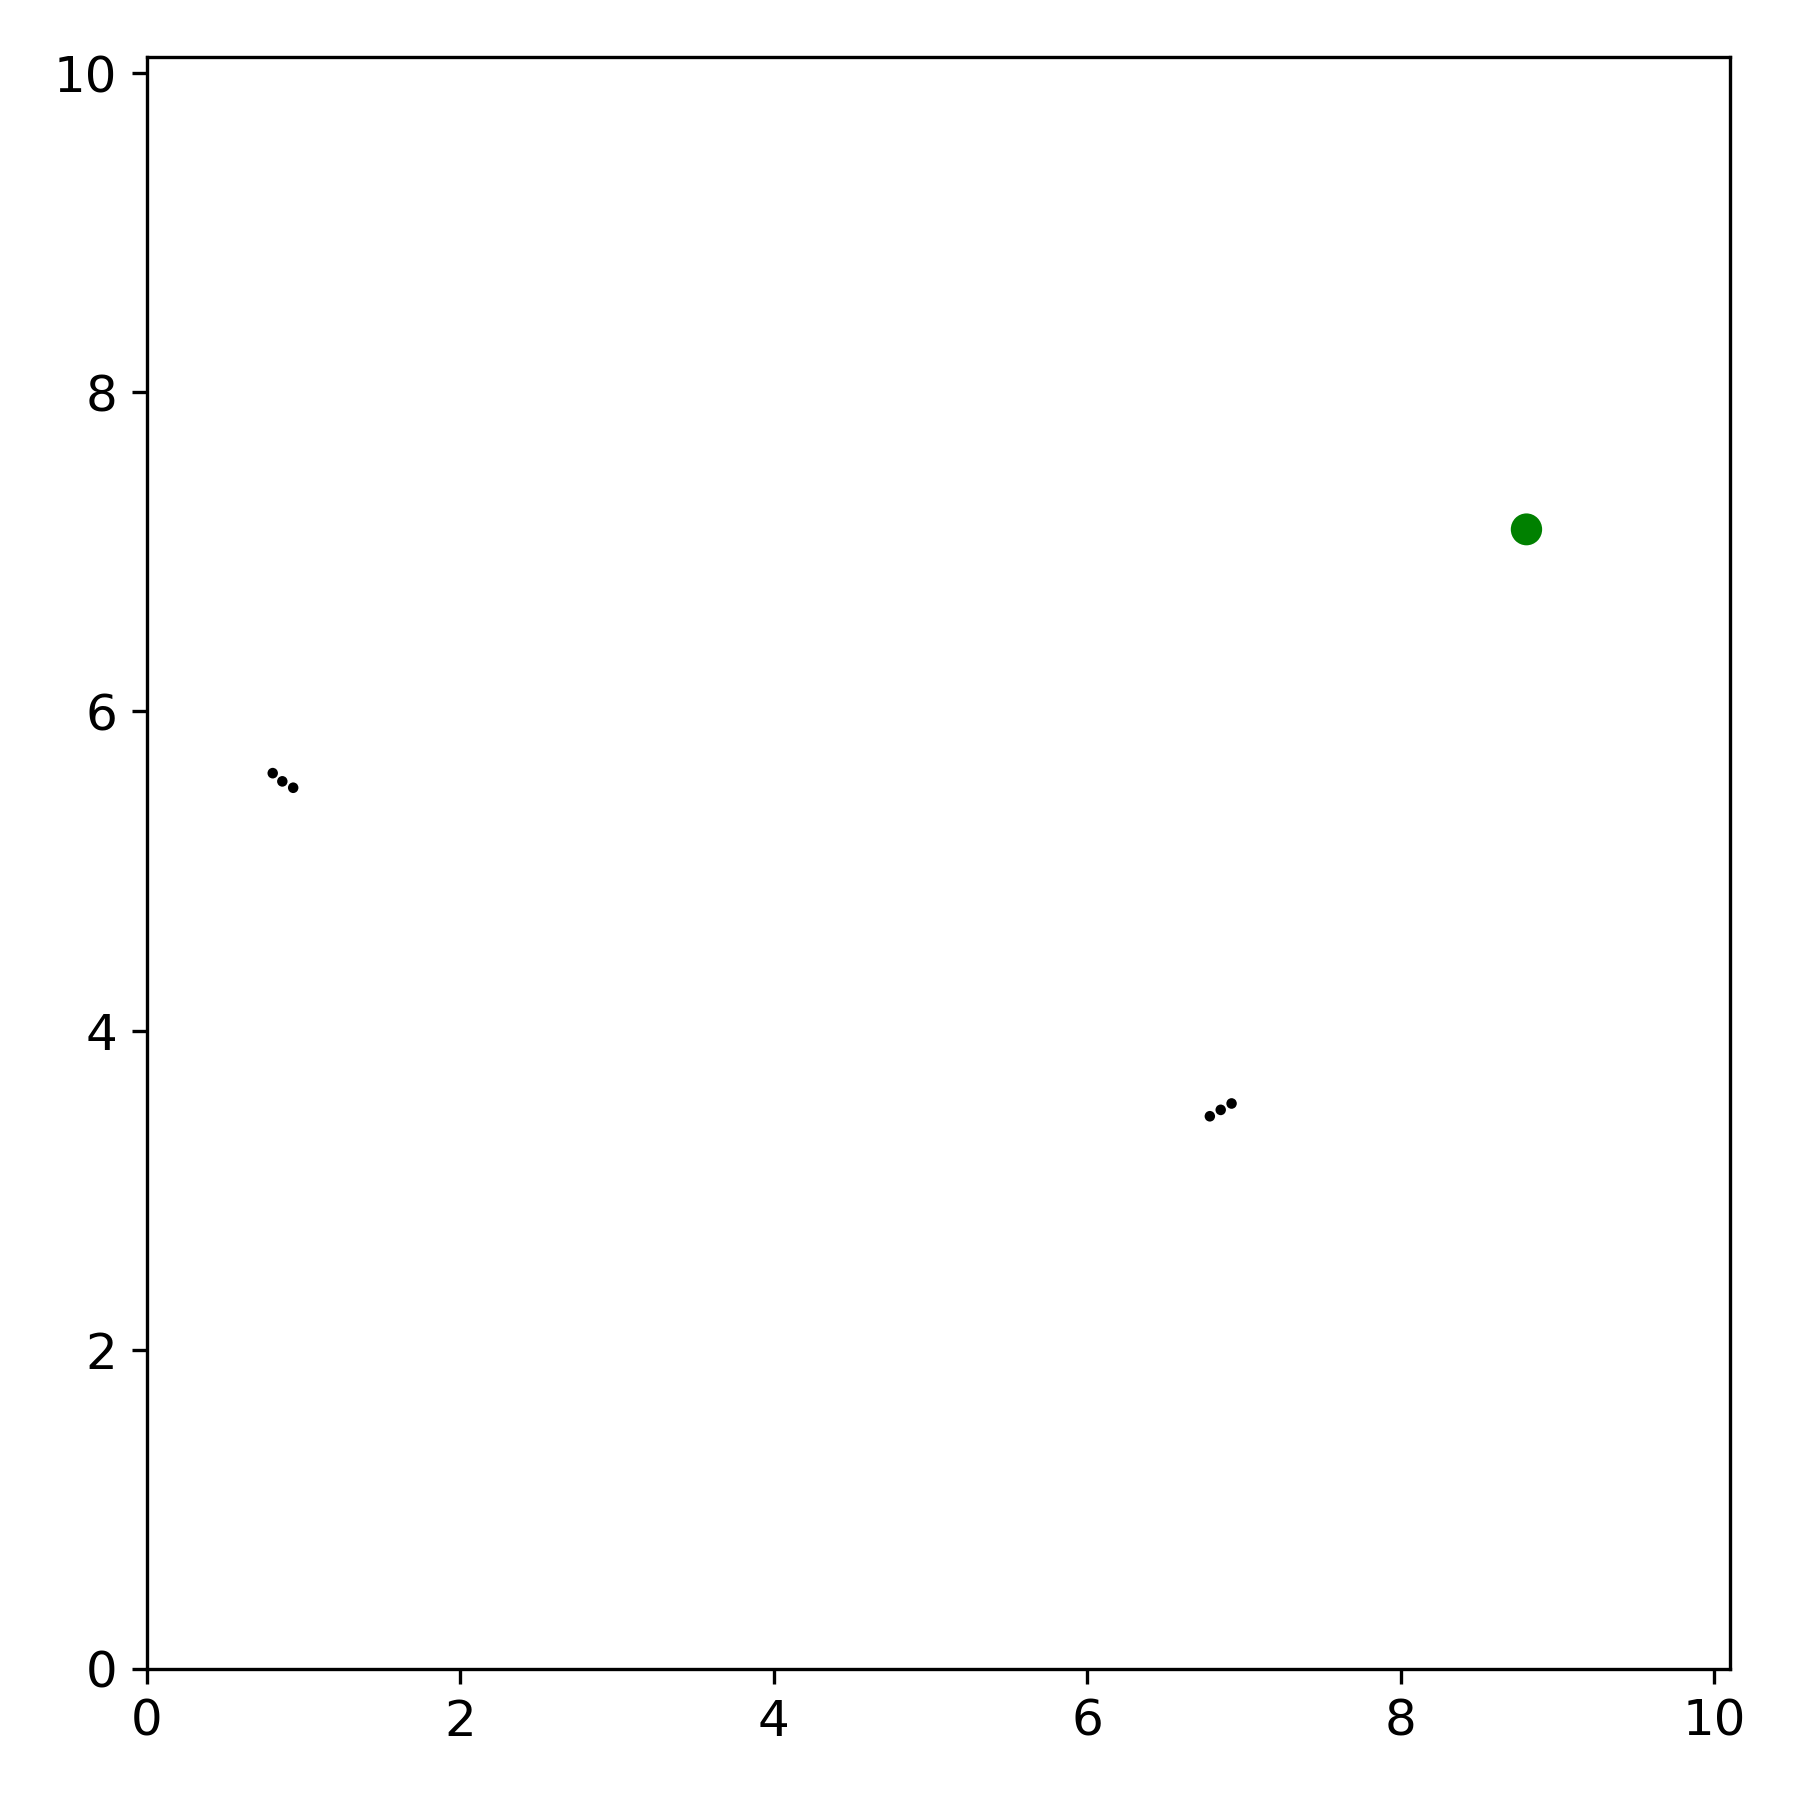
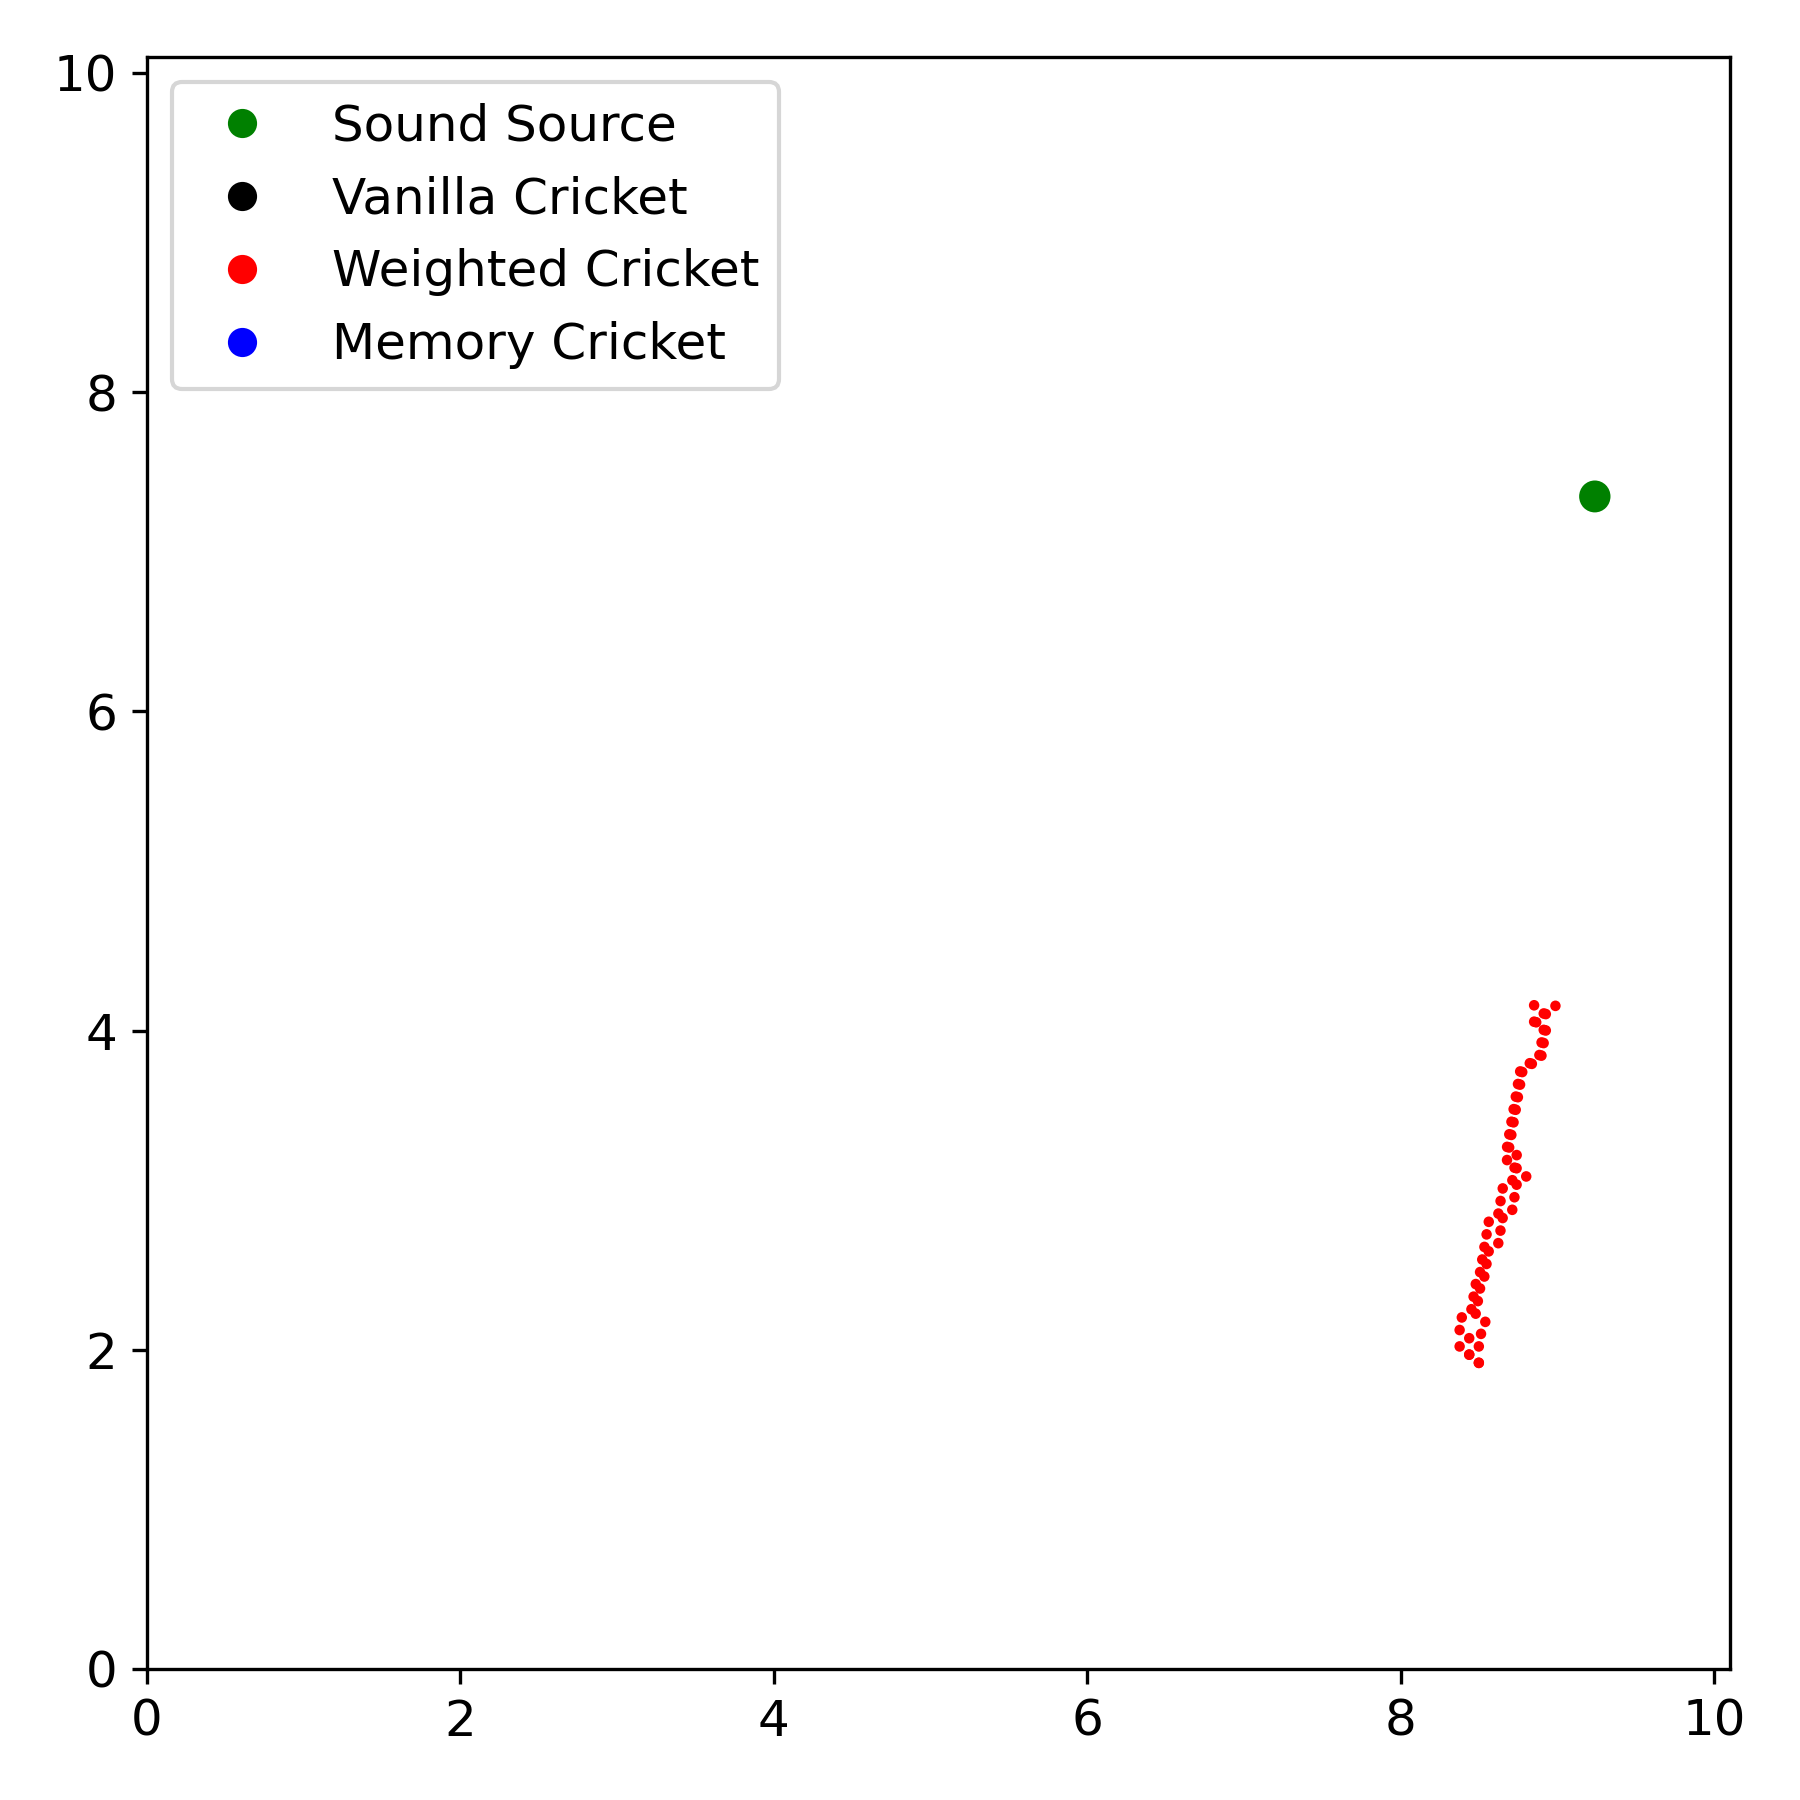
feat: random position at start for agent, readme file updated, main function runs with args

diff --git a/cricket_lib/simulator.py b/cricket_lib/simulator.py
@@ -1,19 +1,24 @@
 import os
 import sys
+from typing import List
 
+import numpy as np
 from scipy.io import wavfile
 from matplotlib import pyplot as plt, patches
 from matplotlib.lines import Line2D
 from matplotlib.animation import FuncAnimation
 import concurrent.futures
-import numpy as np
+import imageio
 
 from .environment import CricketEnvironment
 
 
 class CricketSimulation:
     def __init__(
-        self, environment: CricketEnvironment, audio_paths: str, destination_path: str
+        self,
+        environment: CricketEnvironment,
+        audio_paths: List[str],
+        destination_path: str,
     ):
         """
         Initialize the simulation
@@ -47,10 +52,11 @@ class CricketSimulation:
                 agent.check_mate(self.environment.get_source_locations())
                 for agent in self.environment.agents
             )
-            or self.environment.check_one_agent_under_source()
+            or not self.environment.check_one_agent_under_source()
         ):
             # Close the figure
             plt.close(self.fig)
+            self.__animation_finished(None)
             return
 
         sources = self.environment.get_source_locations()
@@ -66,9 +72,11 @@ class CricketSimulation:
             concurrent.futures.wait(futures)
 
         # Draw the new position of the agent
-        for agent in self.environment.get_agent_locations():
+        for agent in self.environment.agents:
             new_patch = patches.Circle(
-                (agent), radius=dimensions[0] / 300, facecolor="black"
+                (agent.get_position()),
+                radius=dimensions[0] / 300,
+                facecolor=agent.color,
             )
             self.ax.add_patch(new_patch)
             self.trail_patches.append(new_patch)
@@ -78,7 +86,7 @@ class CricketSimulation:
         """
         Play the simulation
         """
-        for i in range (0,len(self.audio_paths)):
+        for i in range(0, len(self.audio_paths)):
             fs, sound_signal = wavfile.read(self.audio_paths[i])
             self.signal.append(sound_signal)
         self.anim = FuncAnimation(
@@ -91,14 +99,59 @@ class CricketSimulation:
         """
         Callback function to handle animation finish event
         """
-        if self.anim:
-            self.anim.event_source.stop()  # Stop animation event source
-        # Save the png
-        print(f"-------------- Saving the png at {self.png_path} --------------")
-        self.fig.savefig(self.png_path, dpi=300)
-        # Save the gif
-        print(f"-------------- Saving the gif at {self.gif_path} --------------")
-        self.anim.save(self.gif_path, writer="imagemagick", fps=2)
+        try:
+            plt.close(self.fig)
+            if self.anim:
+                # Kill the animation
+                self.anim.event_source.stop()
+        except Exception as e:
+            pass
+        finally:
+            # Save the png
+            print(f"-------------- Saving the png at {self.png_path} --------------")
+            self.fig.savefig(self.png_path, dpi=300)
+            # Save the gif
+            print(f"-------------- Saving the gif at {self.gif_path} --------------")
+            # self.anim.save(self.gif_path, writer="imagemagick", fps=3)
+            # self.__create_gif()
+
+    def __create_gif(self):
+        """
+        Create the gif
+        """
+        # Create a list to hold frames
+        frames = []
+        num_frames = len(
+            self.environment.agents[0].past_positions
+        )  # Number of frames equals the length of past_positions of any agent
+
+        for i in range(num_frames):
+            # Clear previous frame
+            self.ax.clear()
+
+            # Draw all agents' positions for the current frame
+            for agent in self.environment.agents:
+                position = agent.past_positions[i]
+                new_patch = patches.Circle(
+                    (position[0], position[1]),
+                    radius=self.environment.get_room_dimensions()[0] / 300,
+                    facecolor=agent.color,
+                )
+                self.ax.add_patch(new_patch)
+
+            # Draw additional elements if needed
+            # Add any additional drawing code here
+
+            # Save the current frame as an image
+            self.fig.canvas.draw()
+            width, height = self.fig.get_size_inches() * self.fig.get_dpi()
+            width, height = int(width), int(height)
+            image = np.frombuffer(self.fig.canvas.tostring_rgb(), dtype="uint8")
+            image = image.reshape((height, width, 3))
+            frames.append(image)
+
+        # Save frames as a GIF
+        imageio.mimsave(self.gif_path, frames, format="GIF", duration=0.3)
 
     def setup_room(self):
         """
@@ -125,17 +178,23 @@ class CricketSimulation:
         # Setup agent patches
         self.trail_patches = [
             patches.Circle(
-                position, radius=self.environment.room_dim[0] / 300, facecolor="black"
+                agent.get_position(),
+                radius=self.environment.room_dim[0] / 300,
+                facecolor=agent.color,
             )
-            for position in self.environment.get_agent_locations()
+            for agent in self.environment.agents
         ]
         for patch in self.trail_patches:
             self.ax.add_patch(patch)
 
         # Include custom legend
-        legend_elements = [Line2D([0], [0], marker='o', lw=0, color='green', label='Sound Source'),\
-                           Line2D([0], [0], marker='o', lw=0, color='black', label='Cricket')]
-        self.ax.legend(handles=legend_elements, loc='upper left')
+        legend_elements = [
+            Line2D([0], [0], marker="o", lw=0, color="green", label="Sound Source"),
+            Line2D([0], [0], marker="o", lw=0, color="black", label="Vanilla Cricket"),
+            Line2D([0], [0], marker="o", lw=0, color="red", label="Weighted Cricket"),
+            Line2D([0], [0], marker="o", lw=0, color="blue", label="Memory Cricket"),
+        ]
+        self.ax.legend(handles=legend_elements, loc="upper left")
 
     def setup_export_paths(self, destination_path: str) -> None:
         """
@@ -145,7 +204,7 @@ class CricketSimulation:
             destination_path (str): The folder to save the files to
 
         The files are named as "output_gif_0.gif", "output_gif_1.gif", etc.
-        or "output_png_0.png", "output_png_1.png", etc. and will be saved in 
+        or "output_png_0.png", "output_png_1.png", etc. and will be saved in
         the "output" folder, in the parent directory of the current path
         """
 

diff --git a/cricket_lib/agent.py b/cricket_lib/agent.py
@@ -1,4 +1,5 @@
 import math
+import random
 from typing import List, Tuple
 import numpy as np
 from typing import List, Dict
@@ -30,6 +31,8 @@ class CricketAgent:
         self.speed: float = speed
         self.available_space: List[float] = available_space
         self.position: List[float] = position if position else self.__random_position()
+        self.color: str = "black"
+        self.past_positions: List[List[float]] = []
 
     def sense(
         self,
@@ -88,6 +91,7 @@ class CricketAgent:
             y_align = room_dim[1]
 
         self.position = [x_align, y_align, 0]
+        self.past_positions.append(self.position)
 
         self.check_mate(sound_sources)
 
@@ -144,13 +148,14 @@ class CricketAgent:
         ]
 
 
-class CricketAgentEnhanced(CricketAgent):
+class CricketAgentWeighted(CricketAgent):
     def __init__(
         self,
         position=[np.random.uniform(0.5, 9.5), np.random.uniform(0.5, 20 / 3 - 0.5), 0],
         speed: float = 1.0,
     ):
         super().__init__(position=position, speed=speed)
+        self.color = "red"
 
     def sense(
         self,
@@ -240,7 +245,7 @@ class CricketAgentEnhanced(CricketAgent):
             )
 
             # The weight is the inverse of the distance
-            weight = 1 / distance if distance != 0 else 1
+            weight = 1 / distance**4 if distance != 0 else 1
 
             # The weight is multiplied by the distance
             combined_weight += weight
@@ -269,6 +274,7 @@ class CricketAgentMemory(CricketAgent):
             []
         )  # Storing angle and probabilities
         self.adaptation_factor = 0.01  # Initial adaptation factor
+        self.color = "blue"
 
     def sense(
         self,
@@ -332,6 +338,7 @@ class CricketAgentMemory(CricketAgent):
             y_align = room_dim[1]
 
         self.position = [x_align, y_align, 0]
+        self.past_positions.append(self.position)
 
         self.check_mate(sound_sources)
 

diff --git a/cricket_race/main.py b/cricket_race/main.py
@@ -12,6 +12,7 @@ The rules of the game are as follows:
 
 """
 
+import numpy as np
 from cricket_lib import agent, environment, simulator, speaker
 
 
@@ -26,14 +27,21 @@ def main():
         # Simulation variables
         audio_path = "./sound_data/cricket.wav"
 
+        random_agent_positions = []
+        for i in range(2):
+            random_agent_positions.append(
+                [
+                    np.random.uniform(0.5, room_dim[0] - 0.5),
+                    np.random.uniform(0.5, room_dim[1] / 2 - 0.5),
+                    0,
+                ]
+            )
+
         # Agent and Simulation
         _environment = environment.CricketEnvironment(room_dim)
-        _agent = agent.CricketAgentEnhanced()
-        _agent_2 = agent.CricketAgentEnhanced()
-        _environment.add_agent(_agent)
-        _environment.add_agent(_agent_2)
-        _source = speaker.Speaker()
-        _environment.add_source(_source)
+        for position in random_agent_positions:
+            _environment.add_agent(agent.CricketAgentWeighted(position))
+        _environment.add_source(speaker.Speaker())
         simulation = simulator.CricketSimulation(
             _environment, [audio_path], "../cricket_race/"
         )

diff --git a/cricket_lib/environment.py b/cricket_lib/environment.py
@@ -1,6 +1,7 @@
 from typing import List
 
 from .speaker import Speaker
+from .agent import CricketAgent
 
 
 class CricketEnvironment:
@@ -14,7 +15,7 @@ class CricketEnvironment:
 
         self.room_dim: List[float] = room_dim
         self.sources: List[Speaker] = []
-        self.agents = []
+        self.agents: List[CricketAgent] = []
 
     def get_room_dimensions(self) -> List[float]:
         """
@@ -82,8 +83,7 @@ class CricketEnvironment:
 
         # Check if one agent is under the source
         for agent in self.agents:
-            if (
-                agent.get_position()[0] > lowest_speaker.get_position()[0] - 0.3
-                and agent.get_position()[0] < lowest_speaker.get_position()[0] + 0.3
-            ):
+            if agent.get_position()[1] < lowest_speaker.get_position()[1]:
                 return True
+
+        return False

diff --git a/main.py b/main.py
@@ -1,8 +1,24 @@
+import sys
 from cricket_race.main import main as cricket_race_main
 from cricket_mating.main import main as cricket_mating_main
 from ormia_response.main import main as ormia_audio_response_main
 
 if __name__ == "__main__":
-    # cricket_mating_main()
-    cricket_race_main()
-    # ormia_audio_response_main()
+    # Take the arguments from the command line
+    if len(sys.argv) != 2:
+        print("Please provide the name of the experiment to run")
+        sys.exit(0)
+
+    experiment_name = sys.argv[1]
+
+    # Run the experiment
+    match experiment_name:
+        case "mating":
+            cricket_mating_main()
+        case "race":
+            cricket_race_main()
+        case "ormia":
+            ormia_audio_response_main()
+        case _:
+            print("Invalid experiment name")
+            sys.exit(0)

diff --git a/cricket_lib/__init__.py b/cricket_lib/__init__.py
@@ -1,0 +1,3 @@
+import numpy as np
+
+np.random.seed = 4

diff --git a/README.md b/README.md
@@ -1,2 +1,43 @@
 # COMP5400M-CW2
+
 Use a sound source localisation algorithm as a sensory input for bio-inspired agents.
+
+## Introduction
+
+The purpose of this project is to explore the behaviour of bio-inspired agents when using a sound source localisation algorithm as a sensory input. The agents will be tested in a simulated environment with the aim of finding the best configuration for the agents to be able to locate the sound source.
+
+## Sound Source Localisation Algorithm
+
+The chosen agents are based on the cricket localisation algorithm. The algorithm is based on the time difference of arrival (TDOA) of the sound at the two ears of the cricket. The algorithm uses the TDOA to calculate the angle of the sound source relative to the cricket. The algorithm is implemented in the `sound_source_localisation.py` file.
+
+## Project Structure
+
+The project is structured as follows:
+
+- The main library is in the folder `cricket_lib`. This folder is structured as a library and will be used by all other files.
+- `cricket_mating` contains the code for analysing a single agent and its ability to locate the sound source.
+- `cricket_race` contains the code for analysing multiple agents and their ability to locate the sound source.
+- `ormia_response` contains the code for TODO
+- All other folders contain resources such as the sound source or the saved models.
+
+## Running the Project
+
+### Libraries and other software
+
+As this is a project that uses Python, it is recommended to use a virtual environment to run the project. The used version of Python is 3.10.2 and can also be found in the `.python-version` file if using `pyenv`.
+
+The required libraries can be found in the `requirements.txt` file. To install the required libraries, run the following command:
+
+```bash
+pip install -r requirements.txt
+```
+
+### Executing the script
+
+The project is setup to be run using the `main.py` file.
+
+As there are 3 different configurations, the script can be run with the following arguments:
+
+- `mating`: Run the script for a single agent.
+- `race`: Run the script for multiple agents.
+- `ormia`: Run the script for the ormia response.
